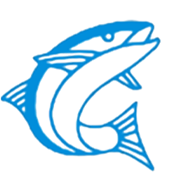
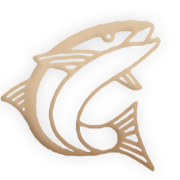
Theme updated

Changed region(s): [[0.0, 0.1111, 0.9167, 0.9722]]

diff --git a/style.css b/style.css
@@ -120,7 +120,7 @@ body{
 	bottom: 15px;
 	right: 15px;
 	padding: 10px 20px;
-	background: #1a76d1;
+	background: #dcc2a1;
 	color: #fff;
 	font-size: 25px;
 	width: 45px;
@@ -132,7 +132,7 @@ body{
 	box-shadow: 0px 0px 10px #00000026;
 }
 #scrollUp:hover{
-	background:#2C2D3F;
+	background:#ad8661;
 }
 /* Color Plate */
 .color-plate {
@@ -266,7 +266,7 @@ body{
 	font-weight:400;
 }
 .header .top-link li:hover a{
-	color:#1A76D1;
+	color:#ad8661;
 }
 .header .top-contact{
 	float:right;
@@ -283,10 +283,10 @@ body{
 	font-size:14px;
 }
 .header .top-contact li a:hover{
-	color:#1A76D1;
+	color:#ad8661;
 }
 .header .top-contact li i{
-	color:#1A76D1;
+	color:#005d81;
 	margin-right:8px;
 }
 .header .header-inner {
@@ -337,7 +337,7 @@ body{
 	bottom: 0;
 	height: 3px;
 	width:0%;
-	background: #1A76D1;
+	background: #ad8661;
 	border-radius: 5px 5px 0 0;
 	opacity:0;
 	visibility:hidden;
@@ -360,7 +360,7 @@ body{
 	visibility:visible;
 }
 .header .nav li:hover a{
-	color:#1a76d1;
+	color:#ad8661;
 }
 .header .nav li a i {
 	display: inline-block;
@@ -604,7 +604,7 @@ body{
 	line-height: 42px;
 }
 .slider .single-slider h1 span{
-	color:#1a76d1;
+	color:#005d81;
 }
 .slider .single-slider p {
 	color: #000;
@@ -644,7 +644,7 @@ body{
 	width: 50px;
 	line-height: 50px;
 	text-align: center;
-	background: #1A76D1;
+	background: #dcc2a1;
 	color: #fff;
 	font-size: 26px;
 	position: absolute;
@@ -656,7 +656,7 @@ body{
 	border-radius: 50%;
 }
 .slider .owl-carousel .owl-nav div:hover{
-	background:#2C2D3F;
+	background:#ad8661;
 	color:#fff;
 }
 .slider .owl-carousel .owl-controls .owl-nav .owl-prev{
@@ -699,7 +699,7 @@ body{
 	text-align: left;
 	z-index:3;
 	border-radius:5px;
-	background:#1A76D1;
+	background:#ad8661;
 	 -webkit-transition: all .3s ease-out 0s;
     -moz-transition: all .3s ease-out 0s;
     -ms-transition: all .3s ease-out 0s;
@@ -722,7 +722,7 @@ body{
     margin: 0 auto;
     width: 80%;
     height: 90%;
-    background:#1A76D1;
+    background:#ad8661;
     opacity: 0;
     filter: blur(10px);
     -webkit-transition: all .3s ease-out 0s;
@@ -845,7 +845,7 @@ body{
 	right: -72px;
 	top: 60px;
 	width: 118px;
-	border-bottom: 3px dotted #1a76d1;
+	border-bottom: 3px dotted #ad8661;
 }
 .Feautes .single-features.last::before{
 	display:none;
@@ -855,7 +855,7 @@ body{
 }
 .Feautes .single-features .signle-icon i{
 	font-size:50px;
-	color:#1a76d1;
+	color:#ad8661;
 	position:absolute;
 	left:50%;
 	margin-left:-50px;
@@ -871,7 +871,7 @@ body{
 	transition:all 0.4s ease;
 }
 .Feautes .single-features:hover .signle-icon i{
-	background:#1A76D1;
+	background:#ad8661;
 	color:#fff;
 	border-color:transparent;
 }
@@ -1067,7 +1067,7 @@ body{
 	left: 190px;
 	top: 30px;
 	color: #ffffff;
-	background-color: #6e6e6e;
+	background-color: #ad8661;
 	width: 125px;
 	padding: 6px;
 	border-top-left-radius: 20px;
@@ -1329,7 +1329,7 @@ body{
 }
 .services .single-service i{
 	font-size:45px;
-	color:#1a76d1;
+	color:#ad8661;
 	position:absolute;
 	left:0;
 	-webkit-transition:all 0.4s ease;
@@ -3984,7 +3984,7 @@ body{
 .footer .footer-top{
 	padding:100px 0px;
 	position:relative;
-	background:#1A76D1;
+	background:#ad8661;
 }
 .footer .footer-top:before{
 	position:absolute;
@@ -4156,7 +4156,7 @@ body{
 	-moz-transition: all 0.4s ease;
 	transition: all 0.4s ease;
 	border-radius: 0 5px 5px 0;
-	color: #1A76D1;
+	color: #ad8661;
 	font-size: 25px;
 }
 .footer .single-footer .newsletter-inner .button i{
@@ -4168,7 +4168,7 @@ body{
 	color:#2C2D3F;
 }
 .footer .copyright{
-	background:#1A76D1;
+	background:#dcc2a1;
 	padding:25px 0px 25px 0px;
 	text-align:center;
 }

diff --git a/css/normalize.css b/css/normalize.css
@@ -318,7 +318,7 @@ Preloader Area CSS
 }
 
 .preloader .loader .indicator svg polyline#front {
-  stroke: #1A76D1;
+  stroke: #ad8661;
   stroke-dasharray: 12, 36;
   stroke-dashoffset: 48;
   -webkit-animation: dash 1s linear infinite;
@@ -333,7 +333,7 @@ Preloader Area CSS
   height: 100%;
   width: 60%;
   z-index: -1;
-  background: #1A76D1;
+  background: #ad8661;
   -webkit-transition: .9s;
   transition: .9s;
 }
@@ -424,7 +424,7 @@ Preloader Area CSS
 	font-size: 14px;
 	text-transform: capitalize;
 	font-weight: 500;
-	background: #1A76D1;
+	background: #ad8661;
 	position: relative;
 	box-shadow: none;
 	display: inline-block;
